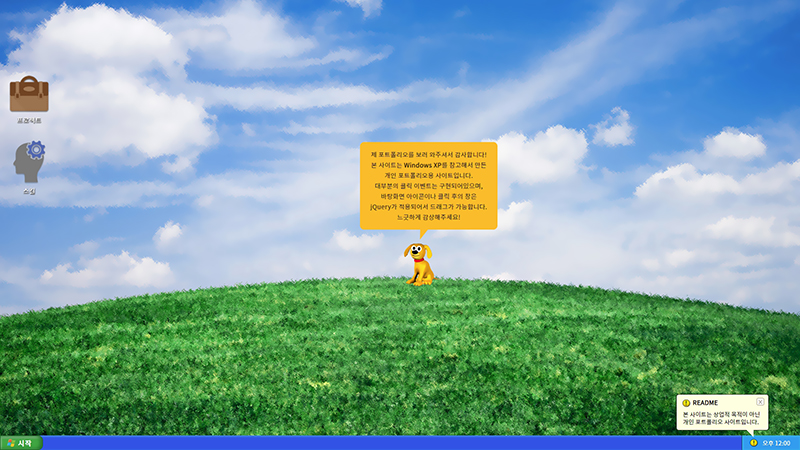
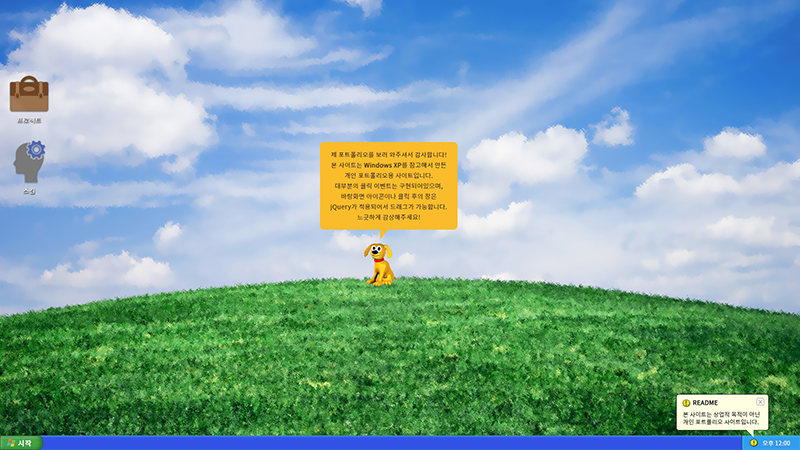
commit

Changed region(s): [[0.375, 0.3111, 0.625, 0.6533]]

diff --git a/css/index.css b/css/index.css
@@ -113,7 +113,7 @@ body {
 #intro {
     position: absolute;
     bottom: 38rem;
-    left: 45%;
+    left: 40%;
 }
 
 .intro-box {
